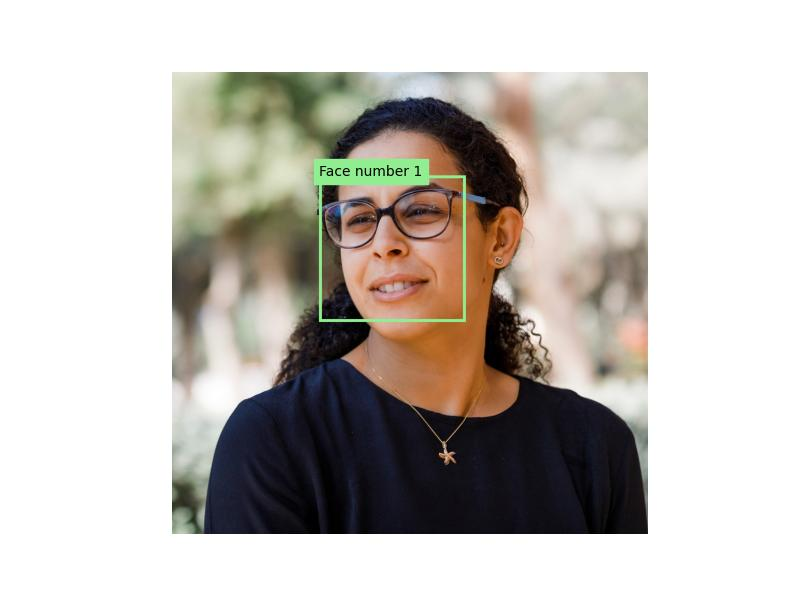
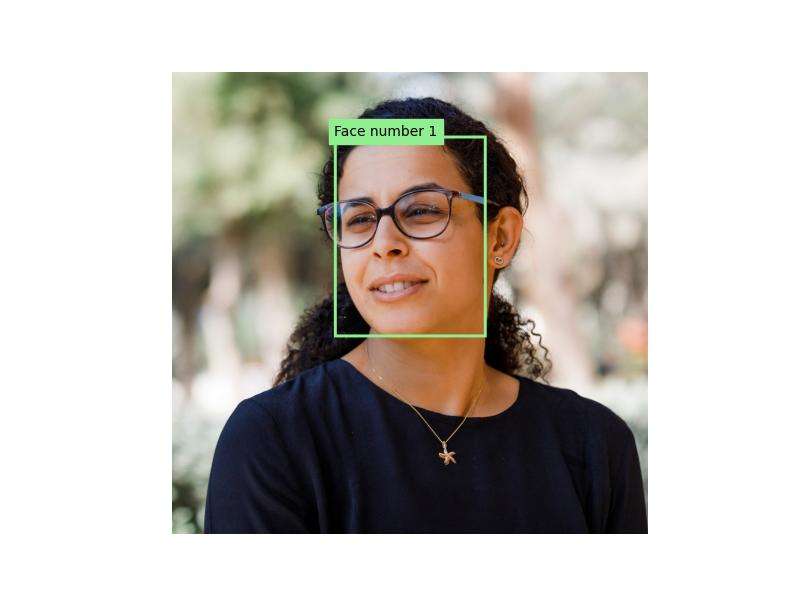
feat: Remove deprecated files and update face detection script
- Deleted obsolete HTTP and Azure CLI files related to image thumbnail generation.
- Removed unused images (weinberg.jpg and weinberg-thumb.jpg) from the demo.
- Deleted outdated project upgrade documentation for Face Detection API migration.
- Updated `analyze-faces.py` to:
  - Change environment variable names for consistency with Azure AI Foundry.
  - Switch to newer detection and recognition models for improved accuracy.
  - Add print statements for better debugging and user feedback.
- Corrected package name in `requirements.txt` from `dotenv` to `python-dotenv`.

Changed region(s): [[0.375, 0.18, 0.625, 0.57]]

diff --git a/demos/04-vision/02-detect-faces/face-api-py/analyze-faces.py b/demos/04-vision/02-detect-faces/face-api-py/analyze-faces.py
@@ -2,6 +2,8 @@ from dotenv import load_dotenv
 import os
 import sys
 from PIL import Image, ImageDraw
+import matplotlib
+matplotlib.use('Agg')  # Use non-interactive backend
 from matplotlib import pyplot as plt
 
 # Import namespaces
@@ -12,19 +14,19 @@ from azure.core.credentials import AzureKeyCredential
 def main():
 
     # Clear the console
-    os.system('cls' if os.name=='nt' else 'clear')
+    # os.system('cls' if os.name=='nt' else 'clear')
+    print("Script starting...")
 
     try:
         # Get Configuration Settings
         load_dotenv()
-        cog_endpoint = os.getenv('AI_SERVICE_ENDPOINT')
-        cog_key = os.getenv('AI_SERVICE_KEY')
+        cog_endpoint = os.getenv('VISION_ENDPOINT')
+        cog_key = os.getenv('VISION_KEY')
 
         # Get image
         image_file = 'images/face1.jpg'
         if len(sys.argv) > 1:
             image_file = sys.argv[1]
-
 
         # Authenticate Face client
         face_client = FaceClient(
@@ -34,20 +36,20 @@ def main():
 
         # Specify facial features to be retrieved
         features = [FaceAttributeTypeDetection01.HEAD_POSE,
-                    FaceAttributeTypeDetection01.OCCLUSION,
-                    FaceAttributeTypeDetection01.ACCESSORIES]
+                    FaceAttributeTypeDetection01.OCCLUSION]
 
         # Get faces
         with open(image_file, mode="rb") as image_data:
             detected_faces = face_client.detect(
                 image_content=image_data.read(),
-                detection_model=FaceDetectionModel.DETECTION01,
-                recognition_model=FaceRecognitionModel.RECOGNITION01,
+                detection_model=FaceDetectionModel.DETECTION03,
+                recognition_model=FaceRecognitionModel.RECOGNITION04,
                 return_face_id=False,
                 return_face_attributes=features,
             )
 
         face_count = 0
+        print(f'Detected {len(detected_faces)} total faces')
         if len(detected_faces) > 0:
             print(len(detected_faces), 'faces detected.')
             for face in detected_faces:
@@ -61,15 +63,14 @@ def main():
                 print(' - Forehead occluded?: {}'.format(face.face_attributes.occlusion["foreheadOccluded"]))
                 print(' - Eye occluded?: {}'.format(face.face_attributes.occlusion["eyeOccluded"]))
                 print(' - Mouth occluded?: {}'.format(face.face_attributes.occlusion["mouthOccluded"]))
-                print(' - Accessories:')
-                for accessory in face.face_attributes.accessories:
-                    print('   - {}'.format(accessory.type))
                 # Annotate faces in the image
                 annotate_faces(image_file, detected_faces)
  
 
     except Exception as ex:
-        print(ex)
+        print(f"Error occurred: {ex}")
+        import traceback
+        traceback.print_exc()
 
 def annotate_faces(image_file, detected_faces):
     print('\nAnnotating faces in image...')
